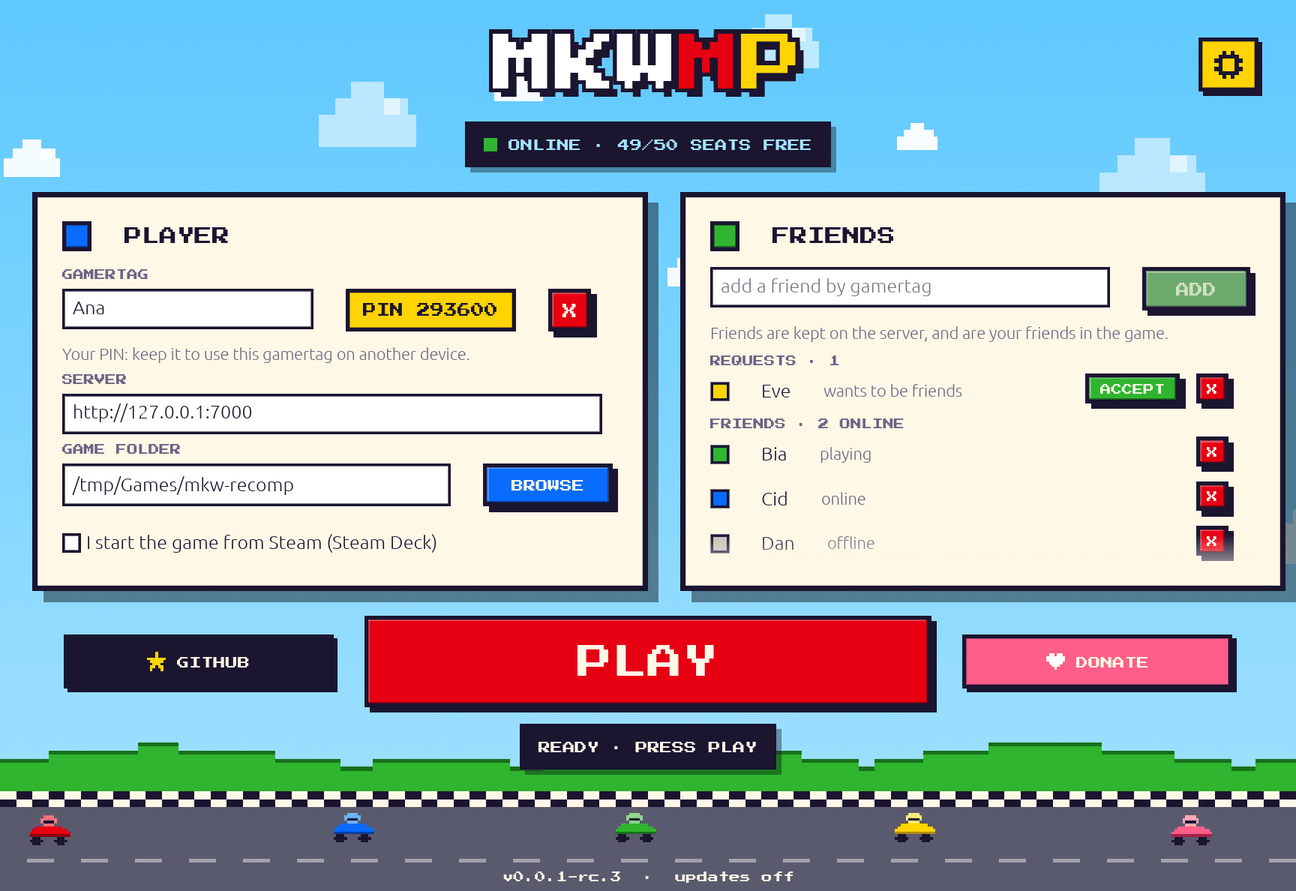
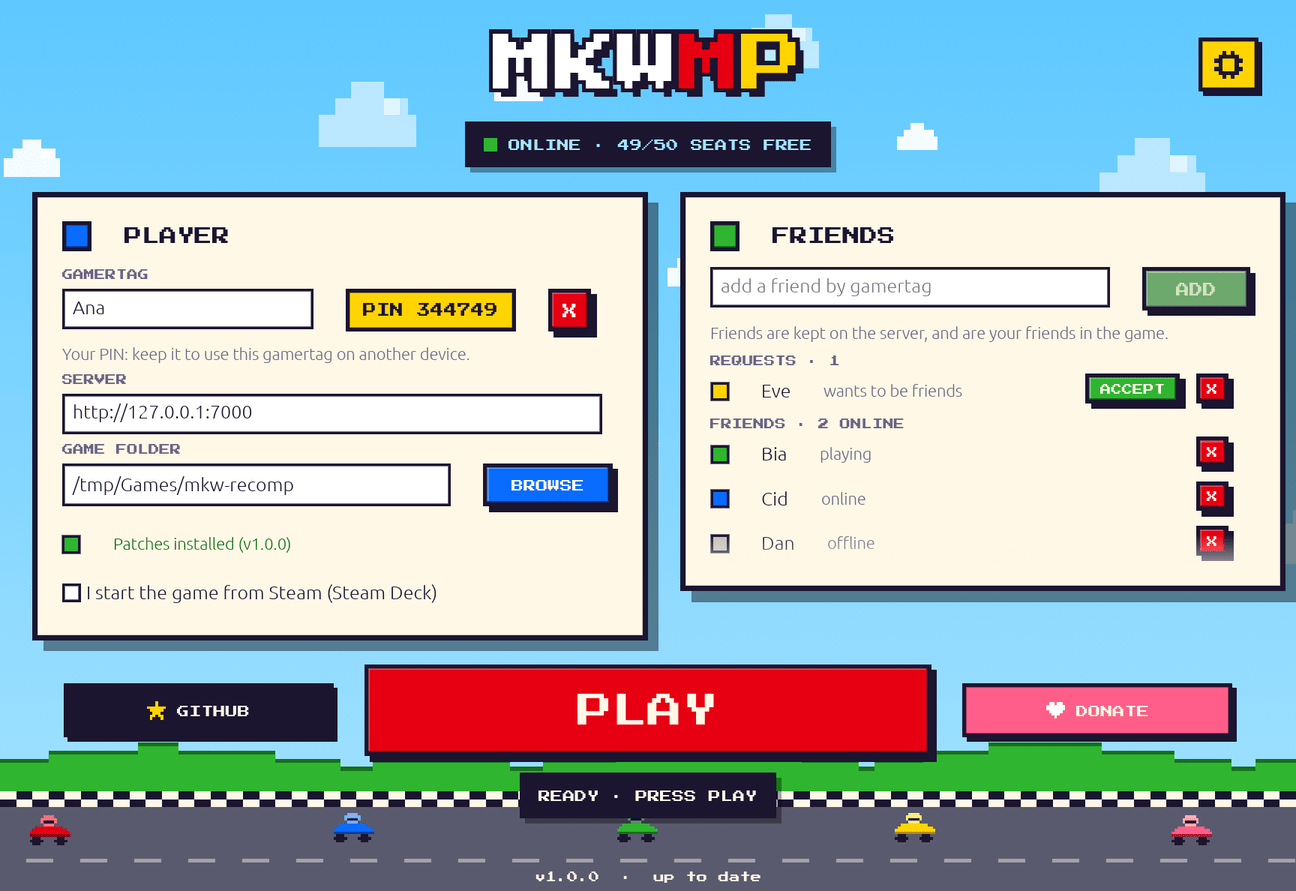
Site and README: new launcher screenshots (game patch check, voice chat settings), 1.0.0 status
The patch check's per-file lines say "verified" instead of a check
mark the launcher's font cannot draw.

Claude-Session: https://claude.ai/code/session_01McdierMtu2Gdm9Hs8K5YCP

diff --git a/site/index.html b/site/index.html
@@ -42,14 +42,14 @@
 
   <section id="launcher" class="panel">
     <h2><span class="coin blue">★</span> THE LAUNCHER</h2>
-    <p>One small app does everything: your gamertag, your friends, the server's free seats, and installing and updating the game patch. Close the window and it keeps running in the system tray, with a notification when a friend comes online, starts playing, or sends you a request.</p>
+    <p>One small app does everything: your gamertag, your friends, the server's free seats, voice chat, and installing, checking and updating the game patch. Close the window and it keeps running in the system tray, with a notification when a friend comes online, starts playing, or sends you a request.</p>
     <figure class="shot">
-      <img src="img/launcher-main.png" width="1296" height="891" alt="The MKWMP launcher: the player card with gamertag, PIN, server and game folder; the friends card with a pending request and friends who are playing, online and offline; the PLAY button.">
-      <figcaption>Gamertag and PIN on the left; friends, requests and who's playing on the right.</figcaption>
+      <img src="img/launcher-main.png" width="1296" height="891" alt="The MKWMP launcher: the player card with gamertag, PIN, server, game folder and the line saying the game patch is installed; the friends card with a pending request and friends who are playing, online and offline; the PLAY button.">
+      <figcaption>Gamertag, PIN and the game patch check on the left; friends, requests and who's playing on the right.</figcaption>
     </figure>
     <figure class="shot">
-      <img src="img/launcher-settings.png" width="1296" height="891" loading="lazy" alt="The launcher's settings: keep running in the system tray, and which friend notifications to show.">
-      <figcaption>Settings: background mode and notifications. Running in the background never takes a seat.</figcaption>
+      <img src="img/launcher-settings.png" width="1296" height="891" loading="lazy" alt="The launcher's settings: keep running in the system tray, friend notifications, the game patch with INSTALL and UNINSTALL, and voice chat with microphone, output, volumes and muted players.">
+      <figcaption>Settings: background mode, notifications, the game patch, and voice chat devices and volumes.</figcaption>
     </figure>
   </section>
 

diff --git a/rust/client/src/probe.rs b/rust/client/src/probe.rs
@@ -220,7 +220,7 @@ pub fn check(game: &Path, expected: Option<&Expected>) -> PatchReport {
             files.push("winmm.dll: missing".into());
             damaged = true;
         }
-        (Some(h), Some(e)) if *h == e.probe => files.push(format!("winmm.dll: v{} ✓", e.version)),
+        (Some(h), Some(e)) if *h == e.probe => files.push(format!("winmm.dll: v{}, verified", e.version)),
         (Some(_), Some(_)) if ours => {
             files.push("winmm.dll: another mkwmp version".into());
             outdated = true;
@@ -237,7 +237,7 @@ pub fn check(game: &Path, expected: Option<&Expected>) -> PatchReport {
             files.push("mkwmp-voice.dll: missing".into());
             damaged = true;
         }
-        (Some(h), Some((Some(want), v))) if h == want => files.push(format!("mkwmp-voice.dll: v{v} ✓")),
+        (Some(h), Some((Some(want), v))) if h == want => files.push(format!("mkwmp-voice.dll: v{v}, verified")),
         (Some(_), Some(_)) => {
             files.push("mkwmp-voice.dll: another version, or changed".into());
             outdated = true;
@@ -255,7 +255,7 @@ pub fn check(game: &Path, expected: Option<&Expected>) -> PatchReport {
             false
         }
         Some(_) => {
-            files.push("winmm_host.dll: the system's winmm.dll ✓".into());
+            files.push("winmm_host.dll: the system's winmm.dll".into());
             true
         }
     };

diff --git a/README.md b/README.md
@@ -6,21 +6,24 @@ Community online play for the [mkw-recomp](https://github.com/adriadam10/mkw-rec
 
 > MKWMP is an unofficial community project, not affiliated with or endorsed by Nintendo. You need your own copy of the game.
 >
-> **Status: developer preview** ([v0.0.1-rc.3](https://github.com/anarqz/mkwmp/releases)). Online races and battles work end to end. The new lobby server, friend rooms and self-hosted servers with the real game are being tested.
+> **Version 1.0.0** ([download](https://github.com/anarqz/mkwmp/releases/latest)): matchmade races and battles, friend rooms, lobby voice chat and self-hosted servers.
 
-![The MKWMP launcher: gamertag and PIN, server, game folder, friends with requests and who is playing, and the PLAY button](site/img/launcher-main.png)
+![The MKWMP launcher: gamertag and PIN, server, game folder with the game patch check, friends with requests and who is playing, and the PLAY button](site/img/launcher-main.png)
 
 ## What it does
 
 - **Gamertags.** Register one in the launcher and get a 6-digit PIN, which lets you use the same gamertag on another PC or a Steam Deck.
 - **Friends, kept on the server.** Add friends by gamertag; they accept or decline. You see who is playing, online or offline, and they're your friends in the game too.
-- **Matchmaking with any number of lobbies.** Races and battles open new lobbies as players arrive and close them when they empty.
+- **Matchmaking with any number of lobbies.** Races and battles open new lobbies as players arrive and close them when they empty. After a match you go back into your lobby.
+- **Friend rooms.** Create a room; friends join from their friend card, or by Room ID with the game's on-screen keypad.
+- **Voice chat** with the players in your lobby, with echo cancelling and noise suppression. Pick your microphone and output in SETTINGS; mute players from the game's lobby menu.
 - **Seats and a queue.** Each server has a fixed number of seats. PLAY takes one, or puts you in line. Having the launcher open doesn't take a seat.
 - **Background mode.** Close the launcher and it stays in the system tray, with notifications when a friend comes online, starts playing or sends you a request.
+- **Game patch check.** The line under GAME FOLDER says whether the patch is installed and is this version, checked by content against signed checksums. SETTINGS → GAME PATCH installs or removes it.
 - **Signed updates.** The launcher updates itself and the game patch from GitHub releases, and checks each download against the release signature.
 - **Host your own** on a PC with one program, or on a Linux server with Docker Compose.
 
-![Launcher settings: background mode and notifications](site/img/launcher-settings.png)
+![Launcher settings: background mode, notifications, game patch, and voice chat devices, volumes and muted players](site/img/launcher-settings.png)
 
 ## Play
 
